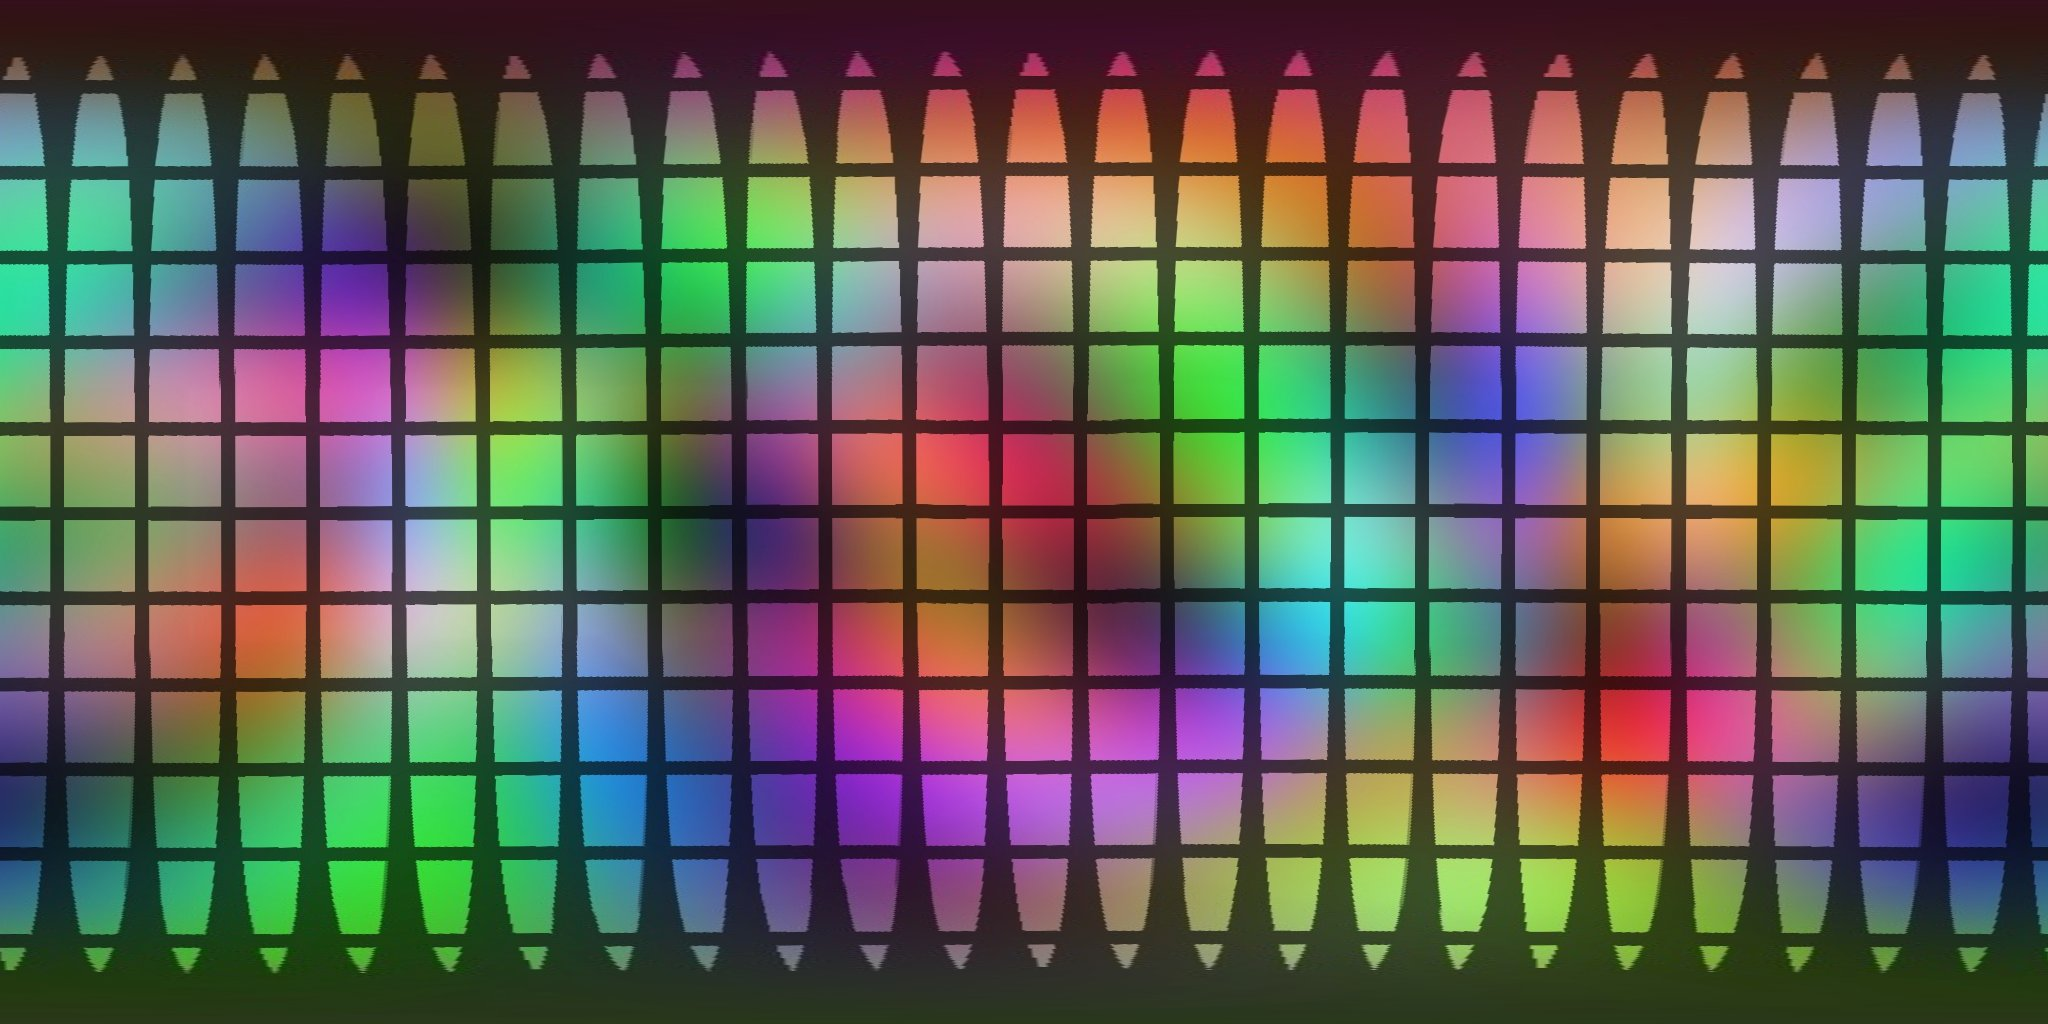
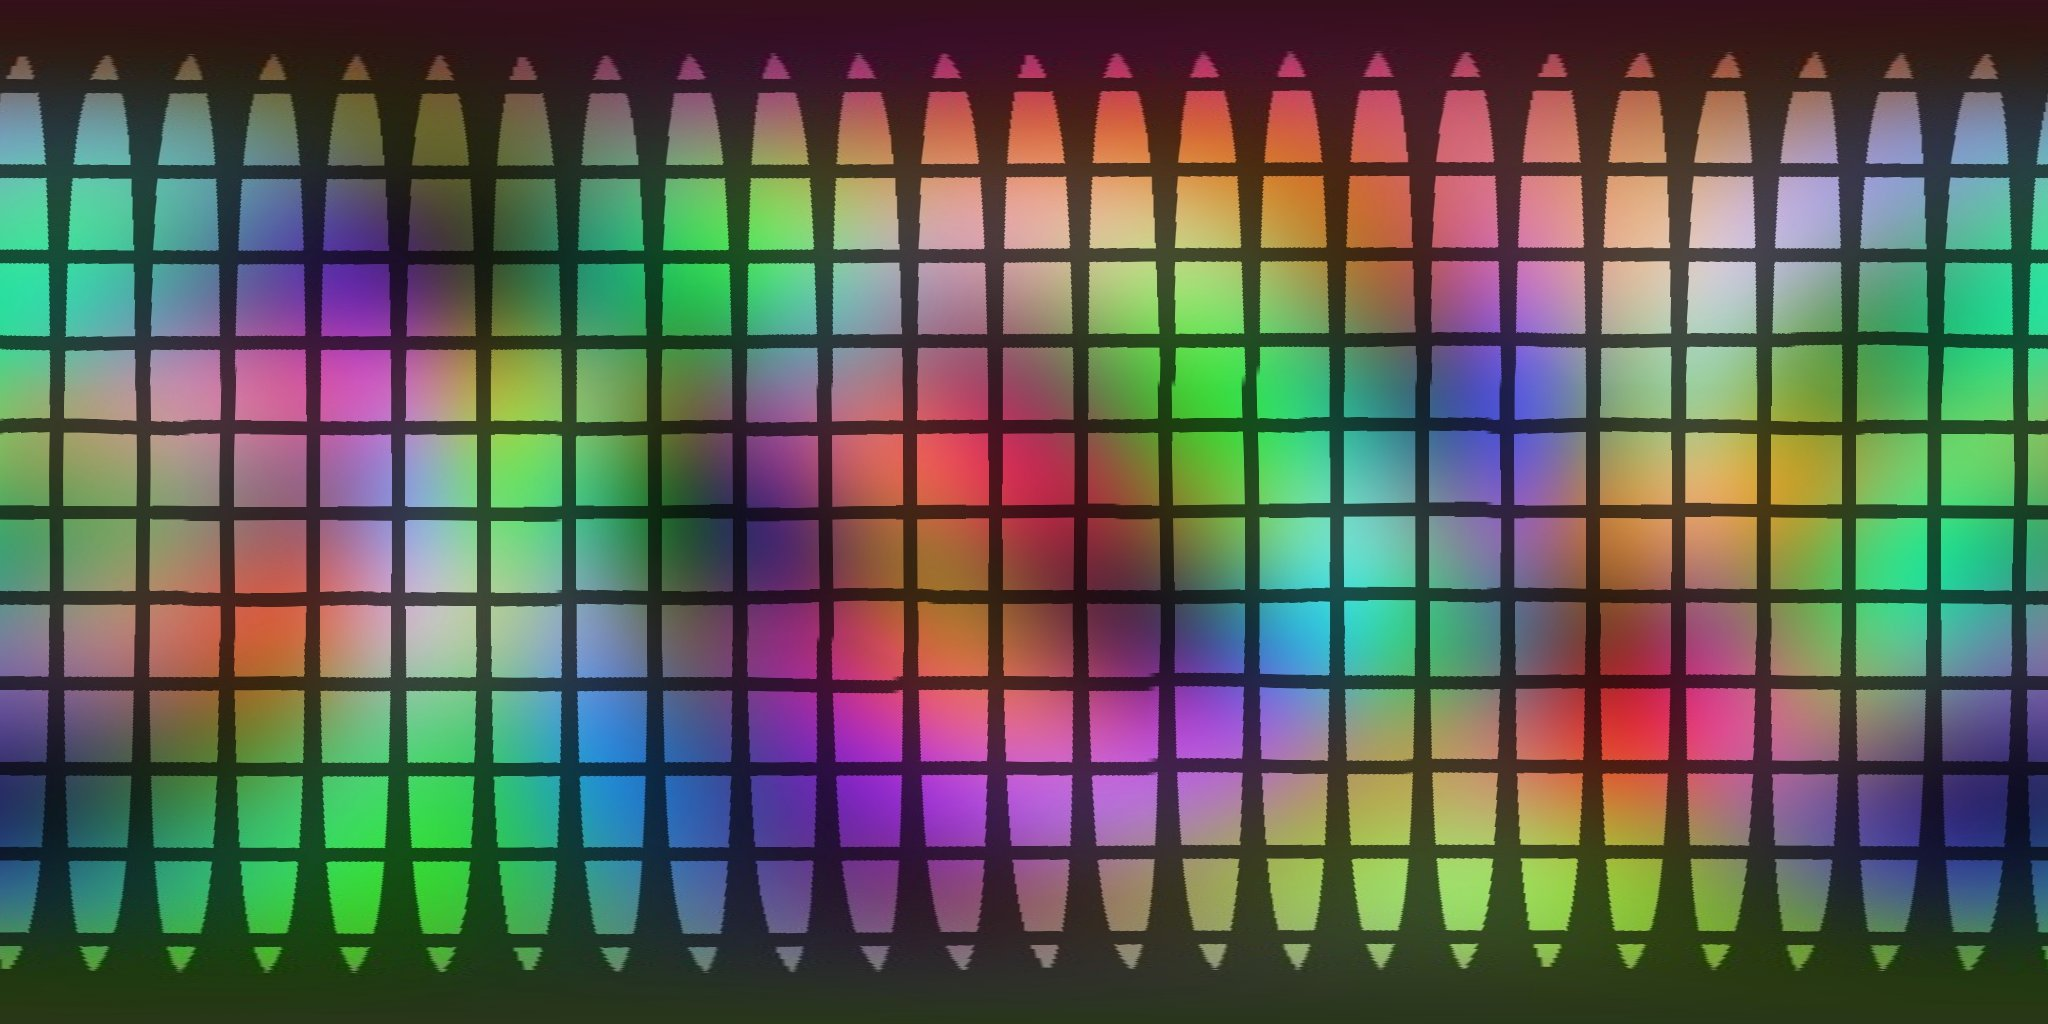
סיור 360: שם קובץ החומר הגולמי כולל שעה (עם שם קבוע אפליקציית השיתוף שלחה קובץ ישן); zip
Claude-Session: https://claude.ai/code/session_01HEpxao8zLhn99ZVvf1KjpF

diff --git a/app-source/www/store3d-pano-try.js b/app-source/www/store3d-pano-try.js
@@ -24,7 +24,7 @@ function bar(el,res,again,done){const b=document.createElement('div');
   /* חומר גולמי (התמונות המקוריות + נתוני החיישן, zip) – לשיפור החיבור על צילום אמיתי. נשמר רק בזיכרון, של הצילום האחרון */
   if(window.S3PanoCap&&typeof S3PanoCap.lastRaw==='function')mk('שליחת חומר גולמי',async()=>{try{
     const z=await S3PanoCap.lastRaw();if(!z){if(typeof toast==='function')toast('אין חומר גולמי לצילום הזה');return}
-    const name='pano360-raw.zip';
+    const t=new Date(),p2=n=>String(n).padStart(2,'0'),name='pano360-raw-'+p2(t.getHours())+p2(t.getMinutes())+p2(t.getSeconds())+'.zip'/* שם שונה בכל שליחה: עם שם קבוע אפליקציית השיתוף שלחה קובץ ישן */;
     if(typeof isNat==='function'&&isNat()&&typeof outSave==='function'){await outSave({name,data:new Uint8Array(await z.arrayBuffer()),mime:'application/zip'},'share');return}
     const f=new File([z],name,{type:'application/zip'});
     if(navigator.canShare&&navigator.canShare({files:[f]})){await navigator.share({files:[f],title:name});return}
